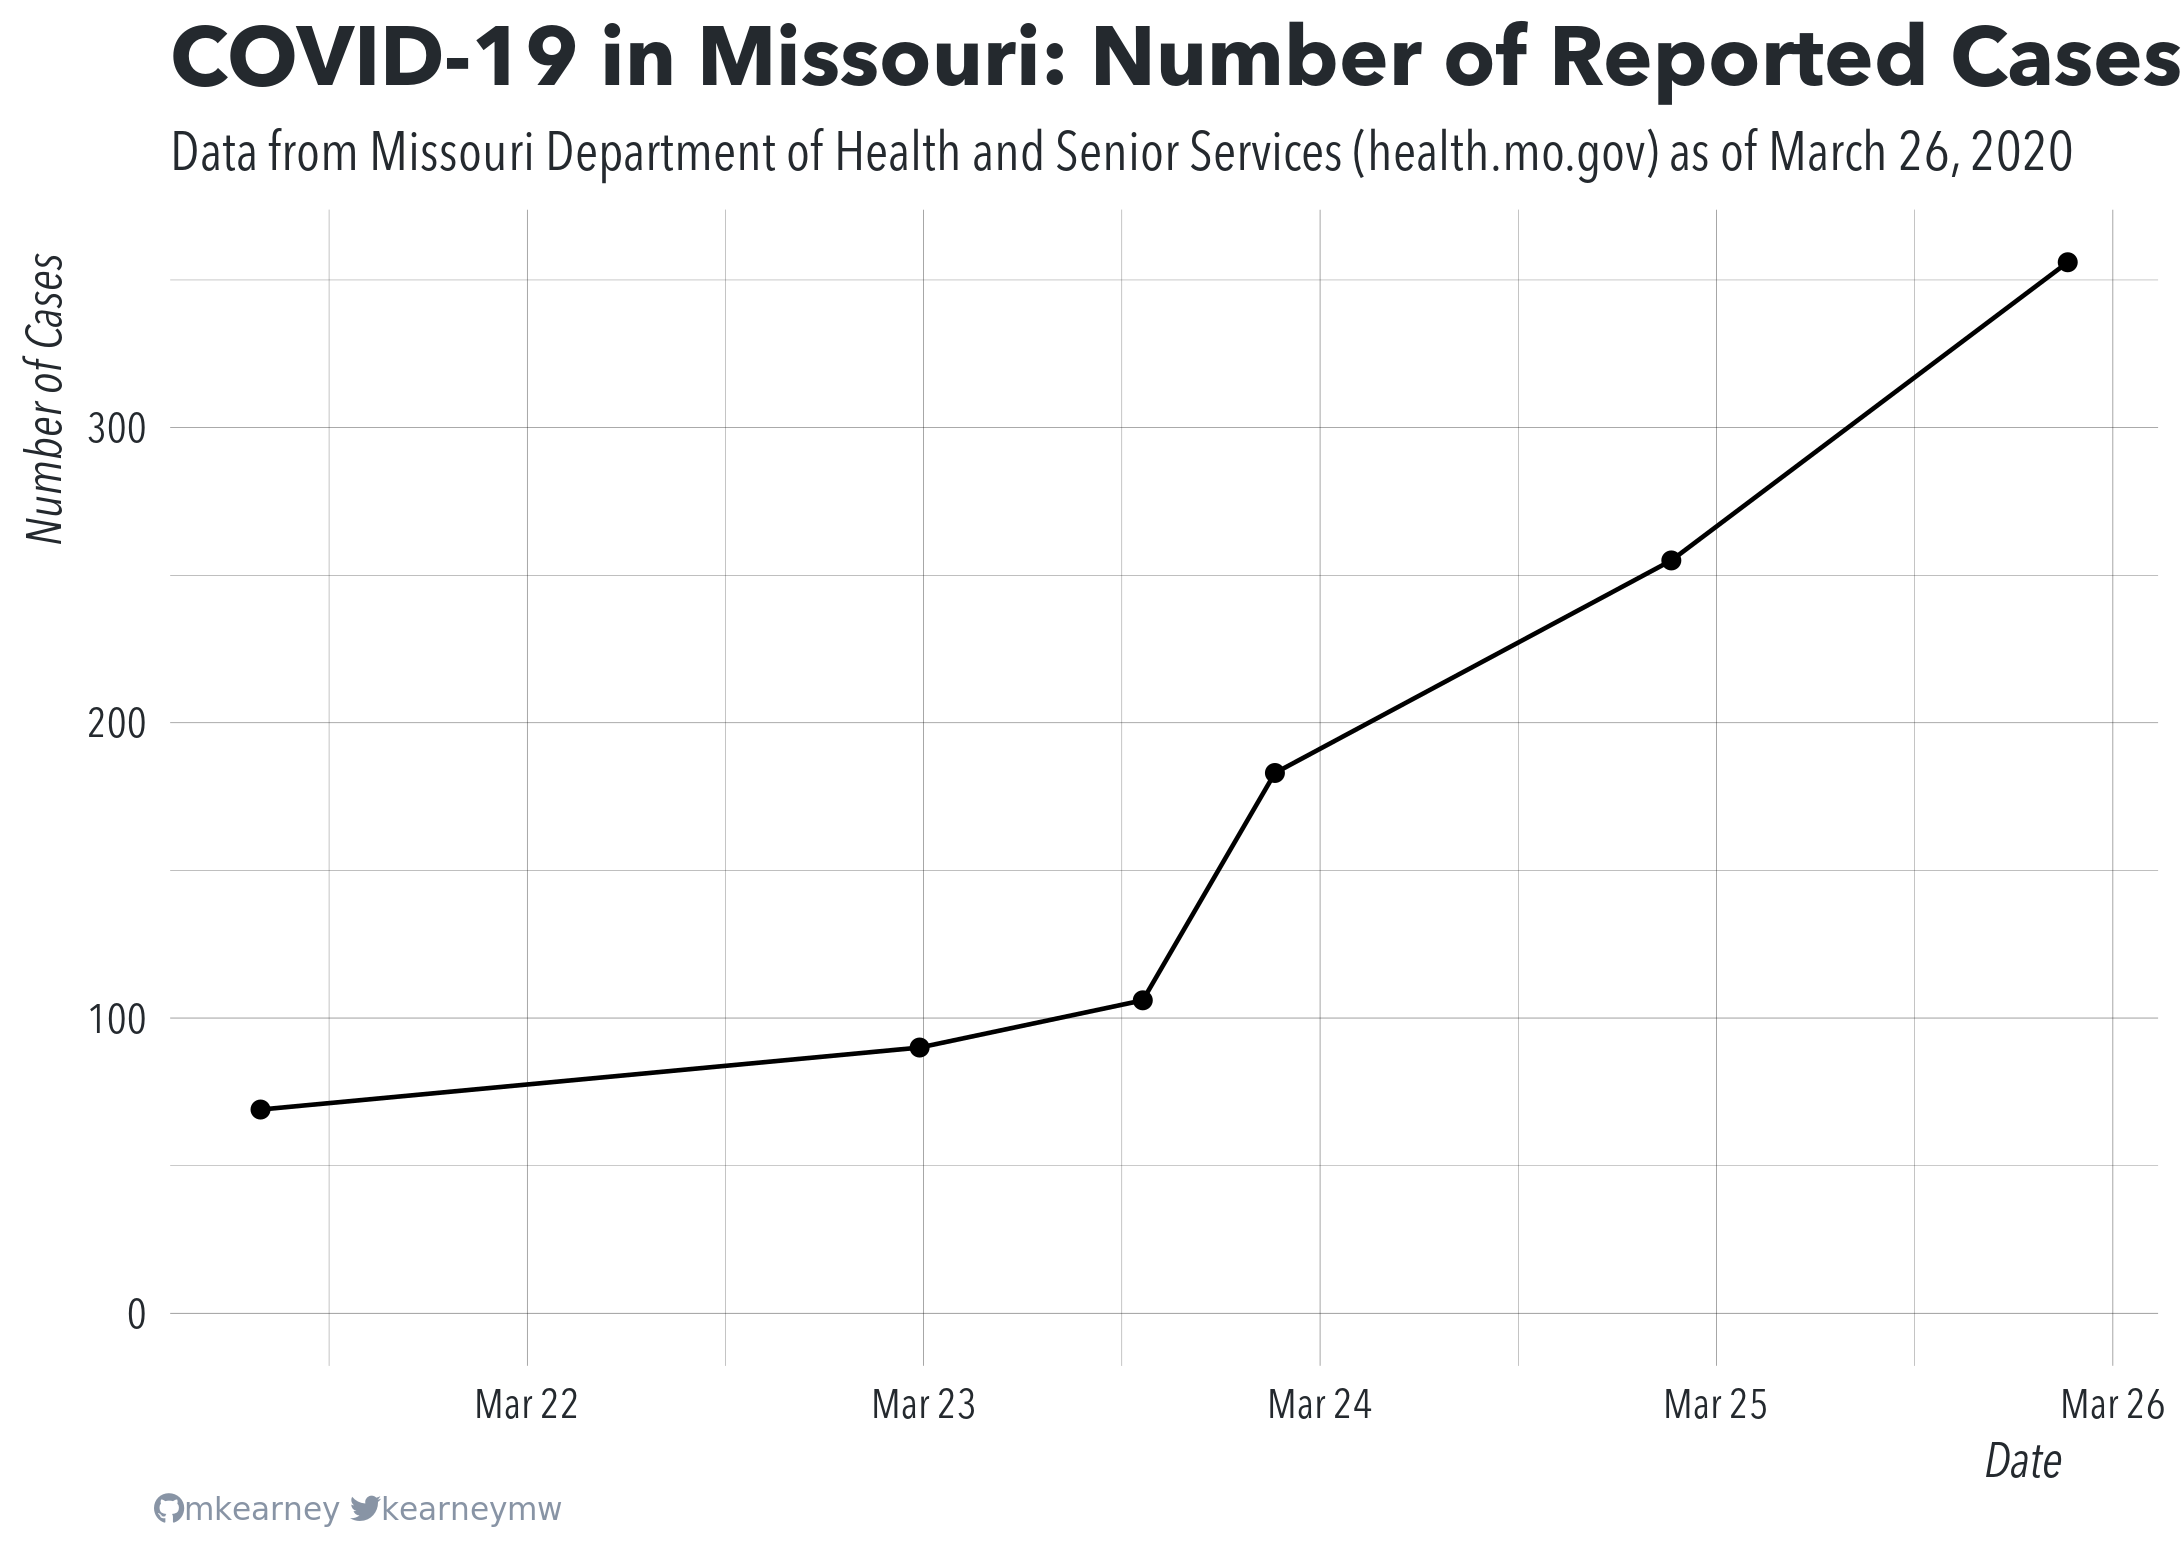
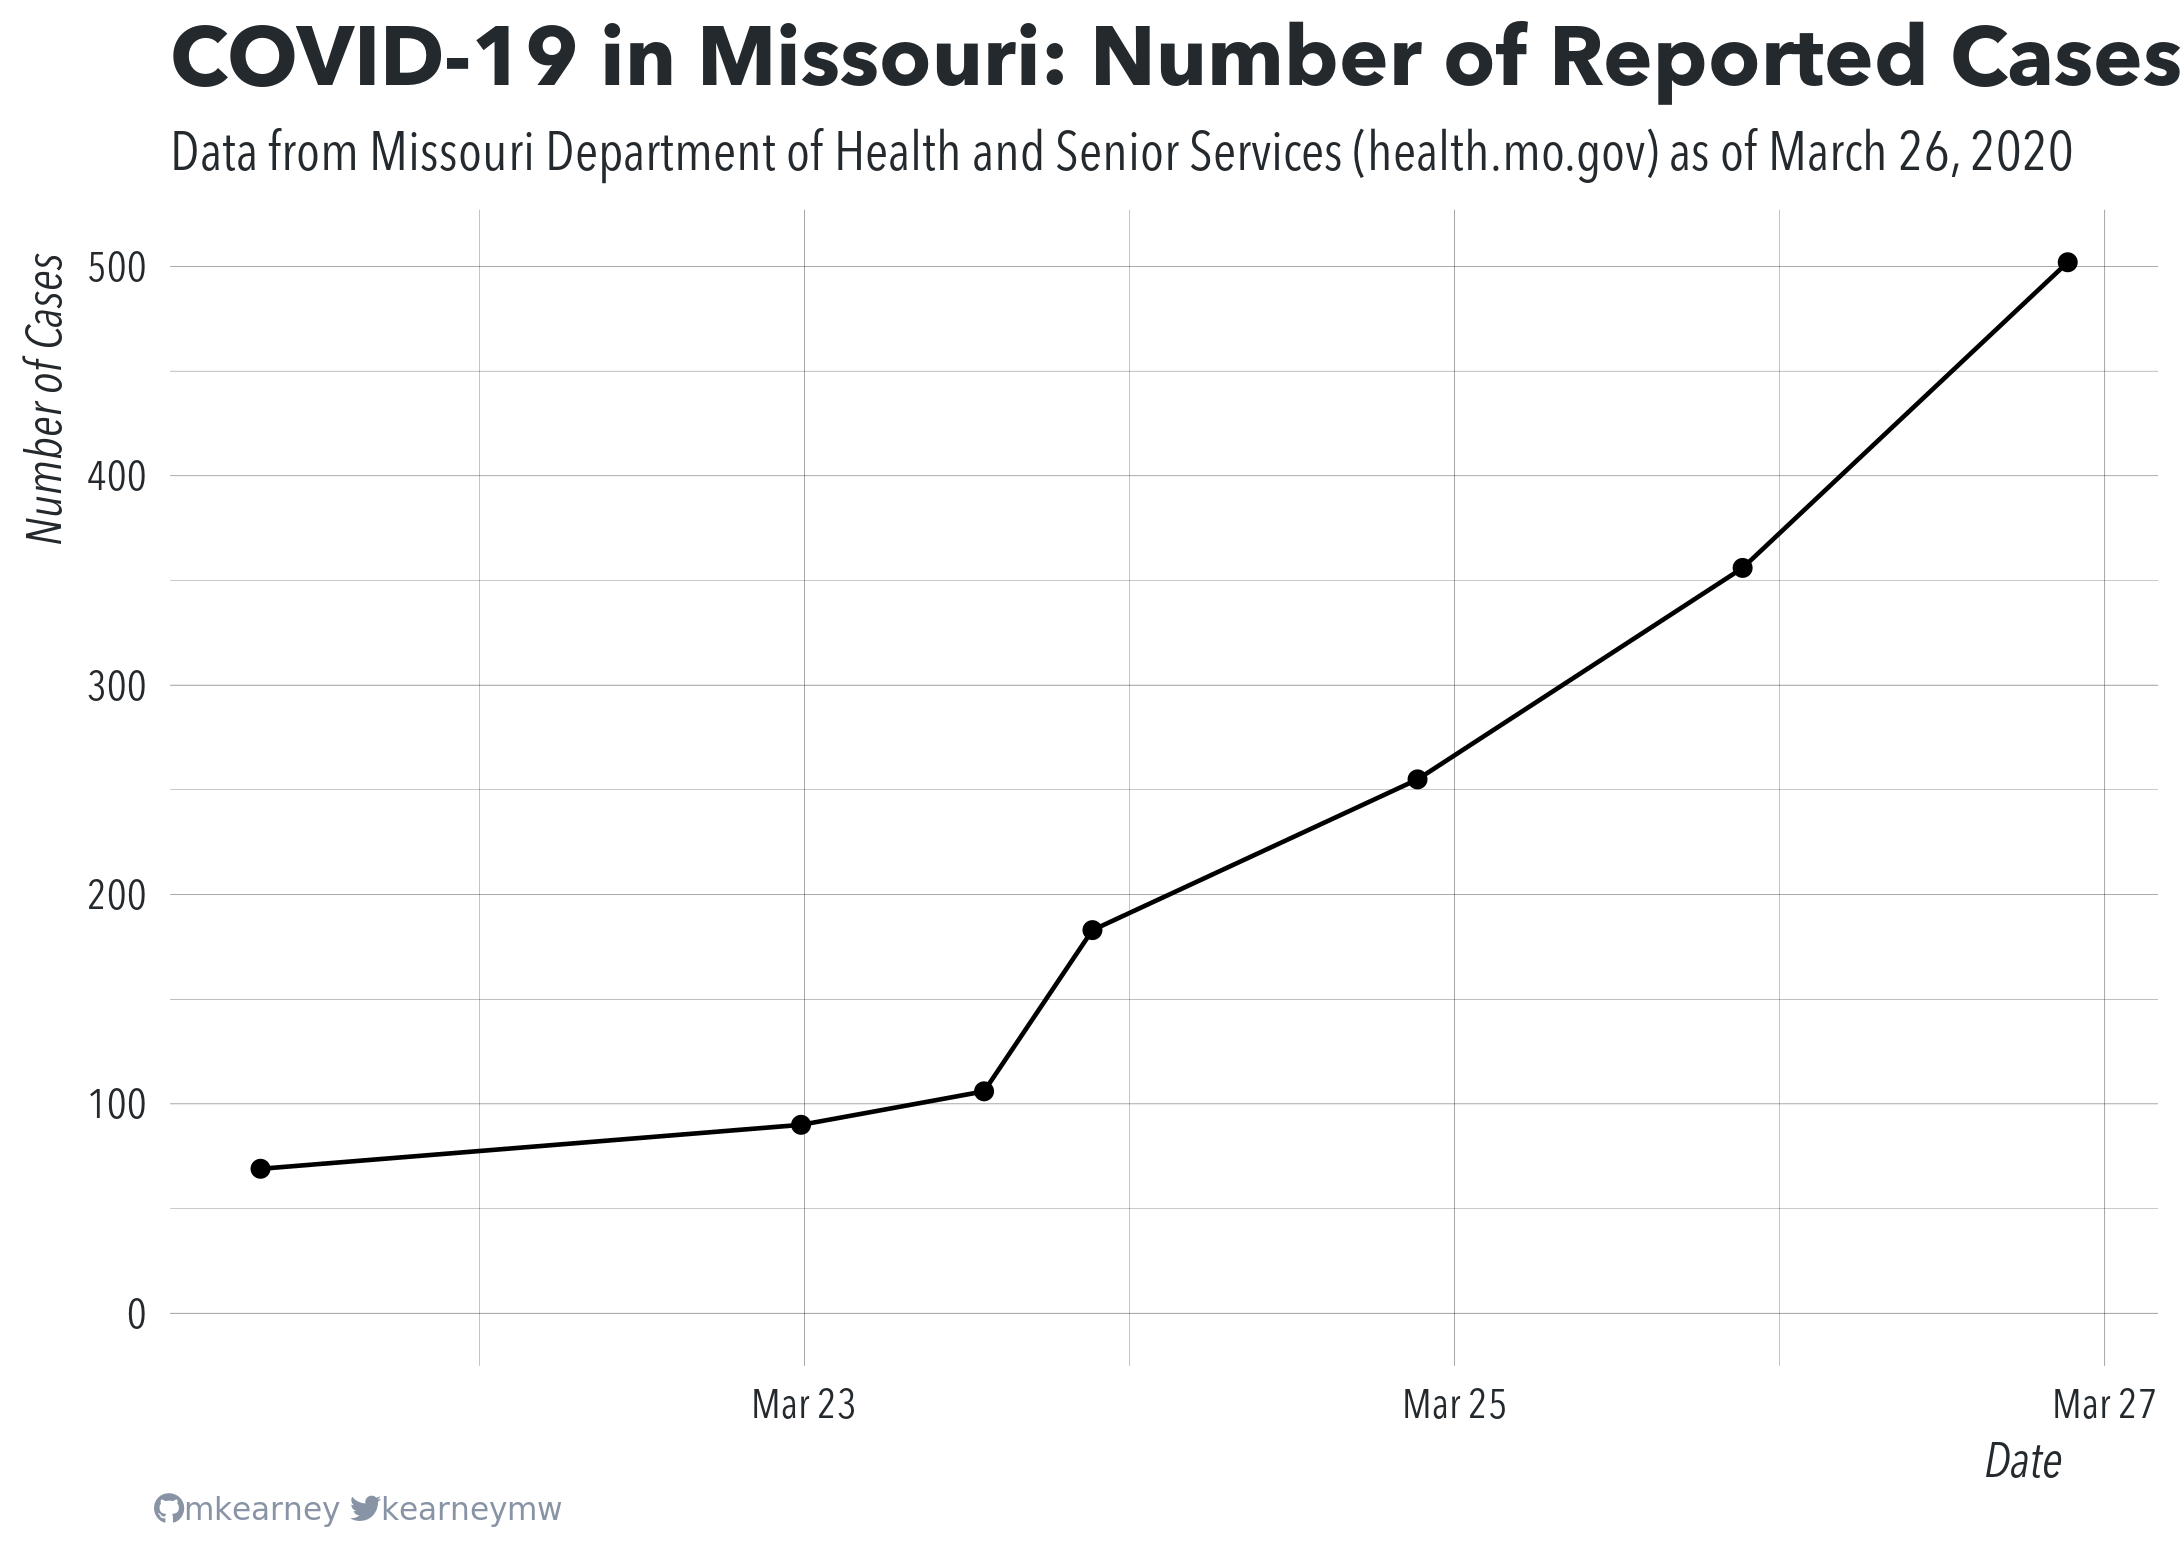
auto update

diff --git a/README.md b/README.md
@@ -25,15 +25,16 @@ at the state or county level:
 ``` r
 ## state totals daya
 suppressMessages(readr::read_csv("data/mo-total.csv"))
-#> # A tibble: 6 x 32
+#> # A tibble: 7 x 32
 #>   state state_abb total_cases state_labs other_labs ages_Boone ages_Greene
 #>   <chr> <chr>           <dbl>      <dbl>      <dbl>      <dbl>       <dbl>
-#> 1 Miss… MO                356         62        294          1           3
-#> 2 Miss… MO                255         55        200         NA          NA
-#> 3 Miss… MO                183         47        136         NA          NA
-#> 4 Miss… MO                106         47         59         NA          NA
-#> 5 Miss… MO                 90         38         52         NA          NA
-#> 6 Miss… MO                 69         NA         NA         NA          NA
+#> 1 Miss… MO                502         72        430          1           3
+#> 2 Miss… MO                356         62        294          1           3
+#> 3 Miss… MO                255         55        200         NA          NA
+#> 4 Miss… MO                183         47        136         NA          NA
+#> 5 Miss… MO                106         47         59         NA          NA
+#> 6 Miss… MO                 90         38         52         NA          NA
+#> 7 Miss… MO                 69         NA         NA         NA          NA
 #> # … with 25 more variables: ages_Jackson <dbl>, `ages_St. Charles` <dbl>,
 #> #   `ages_St. Louis City` <dbl>, `ages_St. Louis County` <dbl>,
 #> #   transmission_under_20 <dbl>, transmission_x20_29 <dbl>,
@@ -48,20 +49,20 @@ suppressMessages(readr::read_csv("data/mo-total.csv"))
 
 ## county data
 suppressMessages(readr::read_csv("data/mo-county.csv"))
-#> # A tibble: 654 x 6
+#> # A tibble: 698 x 6
 #>    county         total state_lab other_lab  fips timestamp          
 #>    <chr>          <dbl>     <dbl>     <dbl> <dbl> <dttm>             
-#>  1 Adair              1         0         1 29001 2020-03-26 17:16:01
-#>  2 Bates              1         0         1 29013 2020-03-26 17:16:01
-#>  3 Boone             20         1        19 29019 2020-03-26 17:16:01
-#>  4 Callaway           2         0         2 29027 2020-03-26 17:16:01
-#>  5 Camden             1         1         0 29029 2020-03-26 17:16:01
-#>  6 Cape Girardeau     3         0         3 29031 2020-03-26 17:16:01
-#>  7 Cass               8         2         6 29037 2020-03-26 17:16:01
-#>  8 Christian          1         1         0 29043 2020-03-26 17:16:01
-#>  9 Clay               2         0         2 29047 2020-03-26 17:16:01
-#> 10 Clinton            1         0         1 29049 2020-03-26 17:16:01
-#> # … with 644 more rows
+#>  1 Adair              1         0         1 29001 2020-03-26 21:16:01
+#>  2 Bates              1         0         1 29013 2020-03-26 21:16:01
+#>  3 Benton             1         0         1 29015 2020-03-26 21:16:01
+#>  4 Bollinger          1         0         1 29017 2020-03-26 21:16:01
+#>  5 Boone             25         1        24 29019 2020-03-26 21:16:01
+#>  6 Callaway           2         0         2 29027 2020-03-26 21:16:01
+#>  7 Camden             1         1         0 29029 2020-03-26 21:16:01
+#>  8 Cape Girardeau     3         0         3 29031 2020-03-26 21:16:01
+#>  9 Carter             1         1         0 29035 2020-03-26 21:16:01
+#> 10 Cass               8         2         6 29037 2020-03-26 21:16:01
+#> # … with 688 more rows
 ```
 
 ![](img/timeseries.png)
